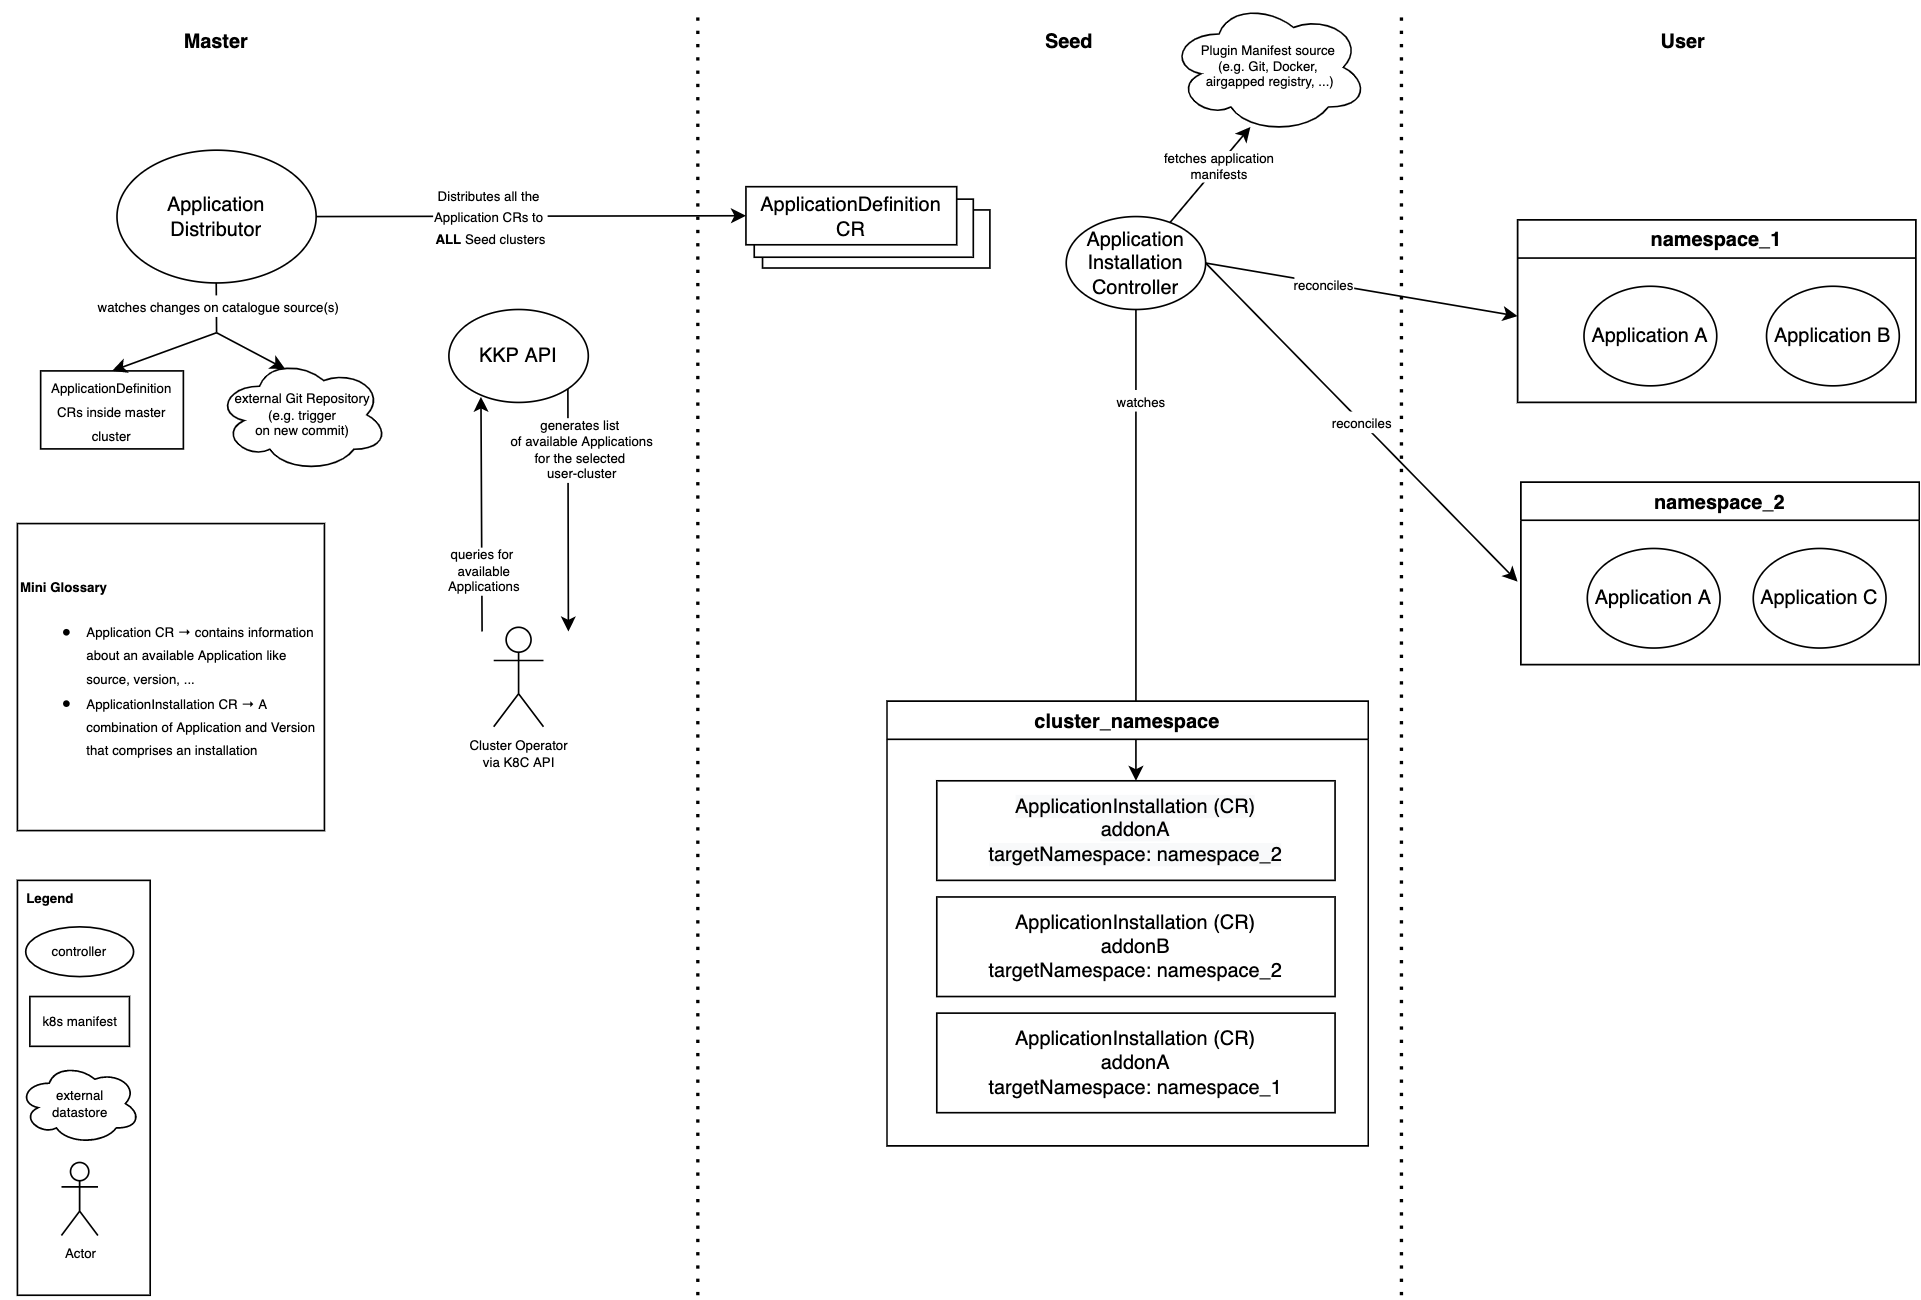
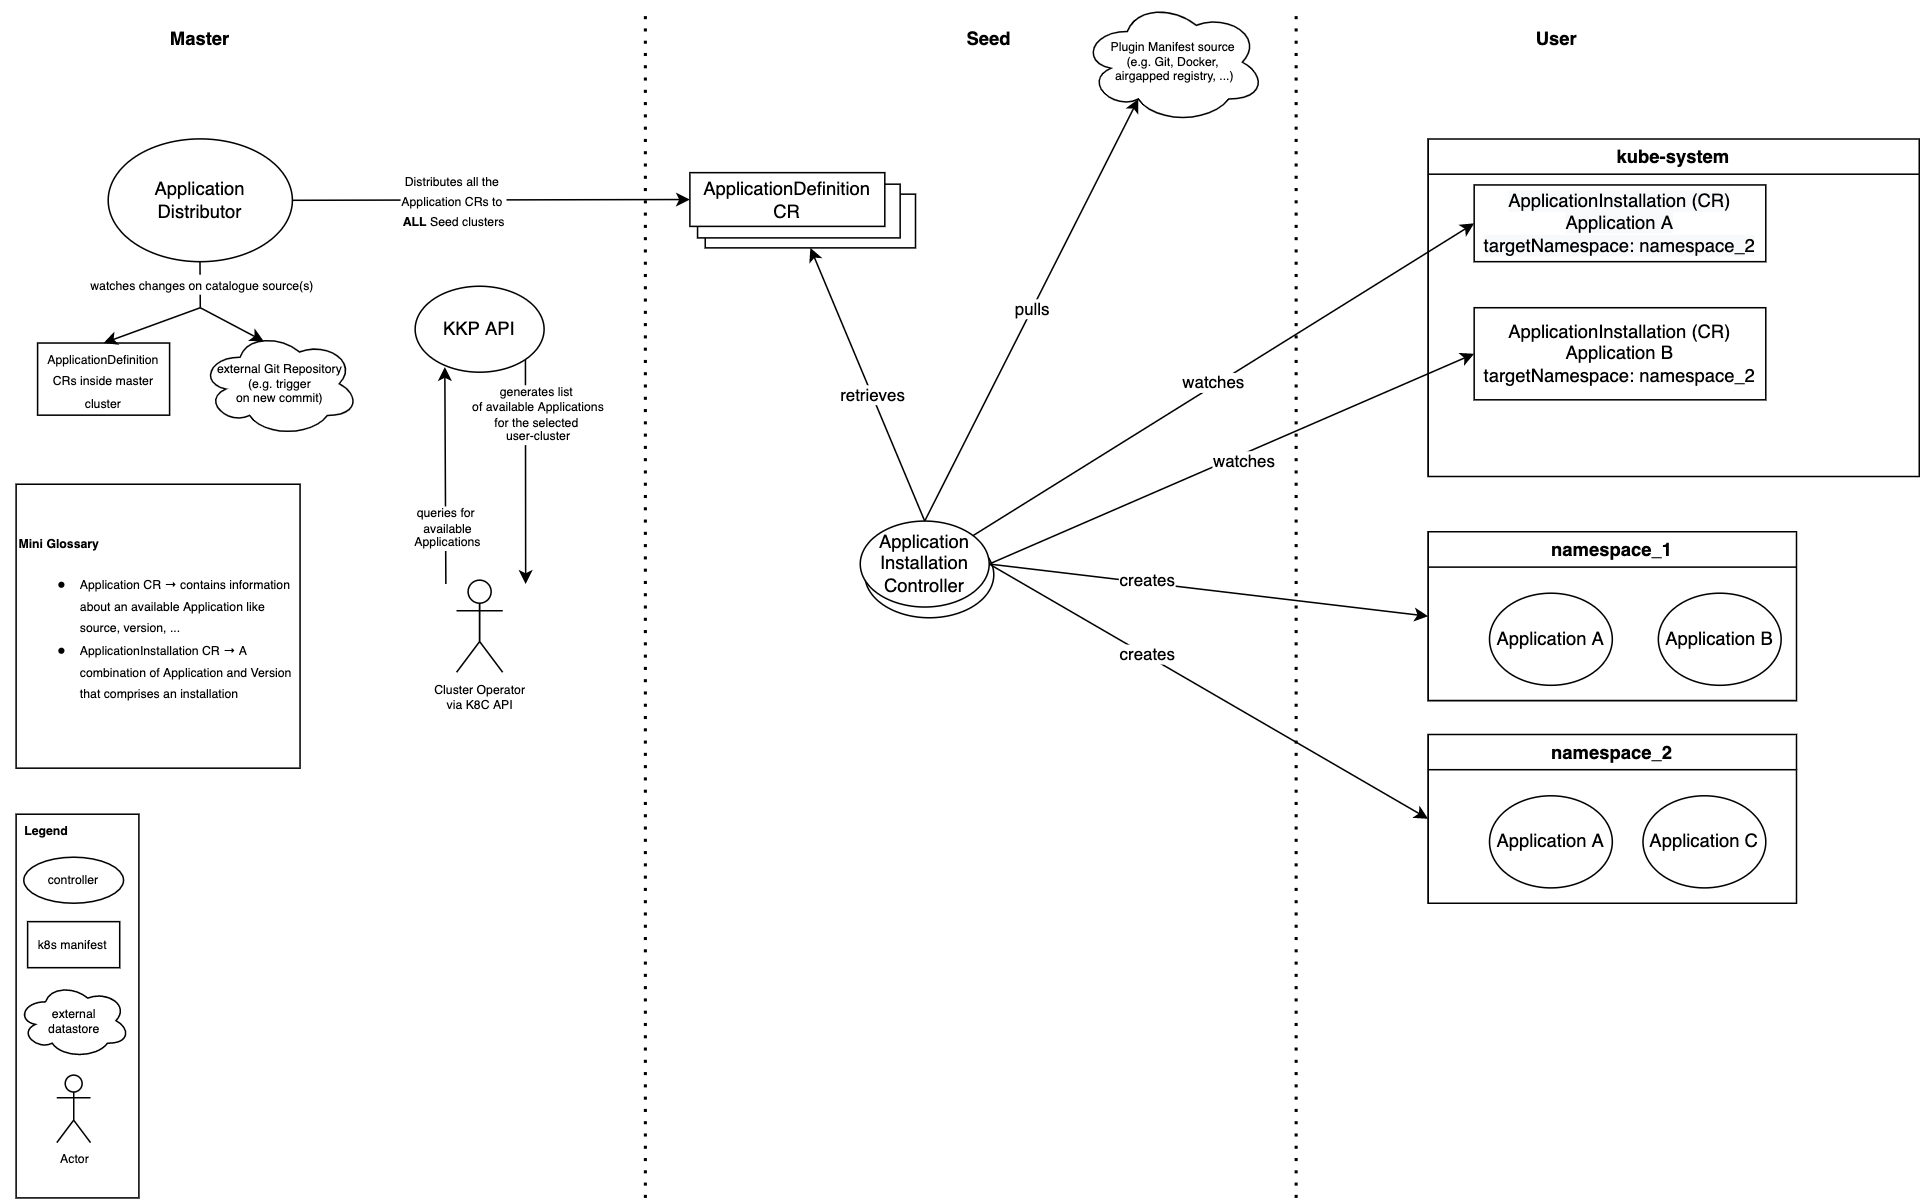
move AppInstallCRs into user namespace + clarify architecture

diff --git a/docs/proposals/improve-addons.md b/docs/proposals/improve-addons.md
@@ -191,17 +191,17 @@ In order to make it possible for users to deploy a cluster with a set of Applica
 
 ### ApplicationInstallation CR
 
-- contains a mapping of a specific Application and cluster where to install
-  - the Application is specified by an ApplicationRef. Currently, this consists of a name and version
-  - the cluster where to install is specified by the namespace the ApplicationInstallation was created in (`metadata.namespace`) => the clusterID must be passed to k8c-api
-- contains the merged values that are being passed for the installation. This is needed as customers can set custom values for each installation.
+ApplicationInstallation CRs are created in the user-cluster in the `kube-system` namespace and:
+
+- contain information about the application to install which is specified by an ApplicationRef. Currently, this consists of a name and version
+- contain the merged values that are being passed for the installation. This is needed as customers can set custom values for each installation.
 
 ```yaml
 apiVersion: apps.kubermatic.k8c.io/v1
 kind: ApplicationInstallation
 metadata:
   name: prometheus
-  namespace: cluster-47s2ddlfgj
+  namespace: kube-system
 spec:
   targetNamespace: monitoring
   createNamespace: true # flag to create the targetNamespace
@@ -214,7 +214,10 @@ spec:
 
 ### ApplicationInstallationController
 
-The ApplicationInstallationController resides in the seed cluster. Its main purpose is to watch ApplicationInstallation CRs and ensure that the requested Applications are installed/modified/deleted in the corresponding user clusters. By extension of this, the ApplicationInstallationController needs to be able to fetch the manifests for Applications.
+The ApplicationInstallationController resides in the seed cluster inside the namespace corresponding to user-cluster. This means each user-clusters has its own ApplicationInstallationController. Its main purpose is to watch ApplicationInstallation CRs and ensure that the requested Applications are installed/modified/deleted in the corresponding user cluster. By extension of this, the ApplicationInstallationController needs to be able to fetch the manifests for Applications. We decided to have the ApplicationInstallationController inside the namespace corresponding to user-cluster as opposed to having it in the user-cluster for the following reasons:
+
+1. Secret Management -> the ApplicationInstallationController handles secrets to external sources (e.g. git credentials). As a result we did not want to a) replicate these secrets into every user cluster or b) build a mechanism for user-cluster-controllers to read secrets from the seed cluster and store them internally
+2. Better support for air-gapped systems -> while there is no finalized concept for doing air-gapped systems yet, we believe that having only ApplicationInstallationControllers from the seed access external resources, is in any case making it easier for future usage with air-gapped systems
 
 The functionality of the ApplicationInstallationController depends on the selected `source` and `method` in the ApplicationDefinition CR. To start we propose the following sources and methods:
 
